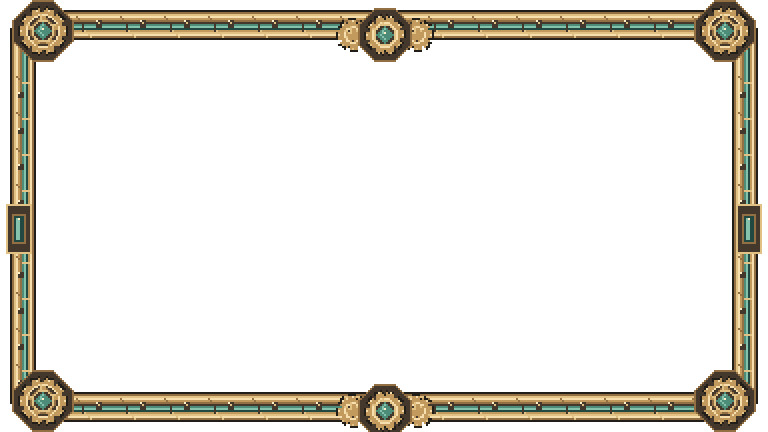
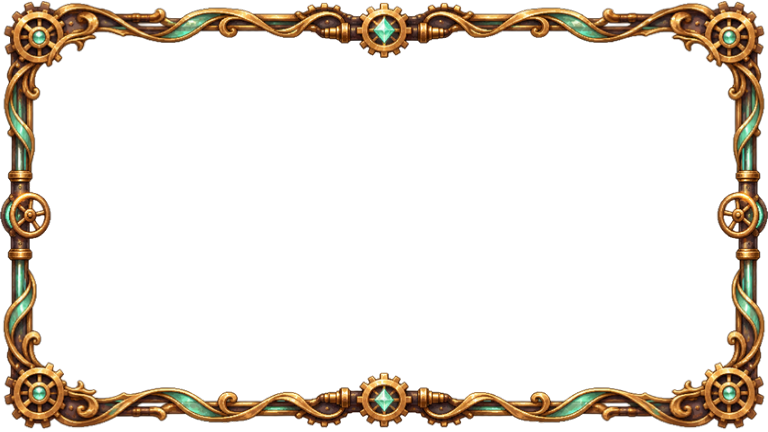
Add files via upload

Changed region(s): [[0.0, 0.0, 1.0, 1.0]]

diff --git a/apps/mobile/src/theme/profile-cosmetic-wave2-assets.ts b/apps/mobile/src/theme/profile-cosmetic-wave2-assets.ts
@@ -27,14 +27,14 @@ export const WAVE2_ART:readonly Wave2CosmeticArt[]=[{
  border:require('../../assets/profile-cosmetics-wave2/clockwork/mechanism.png'),wisp:require('../../assets/profile-cosmetics-wave2/clockwork/aether-spark.png'),particle:require('../../assets/profile-cosmetics-wave2/clockwork/gear-mote.png'),staticEffect:require('../../assets/profile-cosmetics-wave2/clockwork/static-effect.png'),
  motion:'rise',motionProfile:'clockwork',effectPeriodMs:12000,
  glows:[
-  {source:require('../../assets/profile-cosmetics-wave2/clockwork/aether-glint.png'),sourceRect:[370,25,28,28],periodMs:3200,phaseMs:0,peakOpacity:0.86},
-  {source:require('../../assets/profile-cosmetics-wave2/clockwork/aether-glint.png'),sourceRect:[712,18,24,24],periodMs:2800,phaseMs:550,peakOpacity:0.86},
-  {source:require('../../assets/profile-cosmetics-wave2/clockwork/aether-glint.png'),sourceRect:[734,215,24,28],periodMs:3000,phaseMs:1100,peakOpacity:0.86},
-  {source:require('../../assets/profile-cosmetics-wave2/clockwork/aether-glint.png'),sourceRect:[712,388,24,24],periodMs:3400,phaseMs:1700,peakOpacity:0.86},
-  {source:require('../../assets/profile-cosmetics-wave2/clockwork/aether-glint.png'),sourceRect:[370,396,28,28],periodMs:3200,phaseMs:2300,peakOpacity:0.86},
-  {source:require('../../assets/profile-cosmetics-wave2/clockwork/aether-glint.png'),sourceRect:[30,388,24,24],periodMs:3400,phaseMs:2900,peakOpacity:0.86},
-  {source:require('../../assets/profile-cosmetics-wave2/clockwork/aether-glint.png'),sourceRect:[6,215,24,28],periodMs:3000,phaseMs:3500,peakOpacity:0.86},
-  {source:require('../../assets/profile-cosmetics-wave2/clockwork/aether-glint.png'),sourceRect:[30,18,24,24],periodMs:2800,phaseMs:4100,peakOpacity:0.86},
+  {source:require('../../assets/profile-cosmetics-wave2/clockwork/aether-glint.png'),sourceRect:[367,17,24,24],periodMs:3200,phaseMs:0,peakOpacity:0.86},
+  {source:require('../../assets/profile-cosmetics-wave2/clockwork/aether-glint.png'),sourceRect:[709,24,24,24],periodMs:2800,phaseMs:550,peakOpacity:0.86},
+  {source:require('../../assets/profile-cosmetics-wave2/clockwork/aether-glint.png'),sourceRect:[726,199,24,24],periodMs:3000,phaseMs:1100,peakOpacity:0.86},
+  {source:require('../../assets/profile-cosmetics-wave2/clockwork/aether-glint.png'),sourceRect:[709,383,24,24],periodMs:3400,phaseMs:1700,peakOpacity:0.86},
+  {source:require('../../assets/profile-cosmetics-wave2/clockwork/aether-glint.png'),sourceRect:[367,387,24,24],periodMs:3200,phaseMs:2300,peakOpacity:0.86},
+  {source:require('../../assets/profile-cosmetics-wave2/clockwork/aether-glint.png'),sourceRect:[27,383,24,24],periodMs:3400,phaseMs:2900,peakOpacity:0.86},
+  {source:require('../../assets/profile-cosmetics-wave2/clockwork/aether-glint.png'),sourceRect:[18,199,24,24],periodMs:3000,phaseMs:3500,peakOpacity:0.86},
+  {source:require('../../assets/profile-cosmetics-wave2/clockwork/aether-glint.png'),sourceRect:[27,25,24,24],periodMs:2800,phaseMs:4100,peakOpacity:0.86},
  ],
  tracks:[
   {source:require('../../assets/profile-cosmetics-wave2/clockwork/gear-mote.png'),points:[[0.12,0.85],[0.22,0.64],[0.34,0.42],[0.46,0.24]],phase:5,width:0.039,maxDp:17,opacity:0.68,rotation:190,cycles:1},
